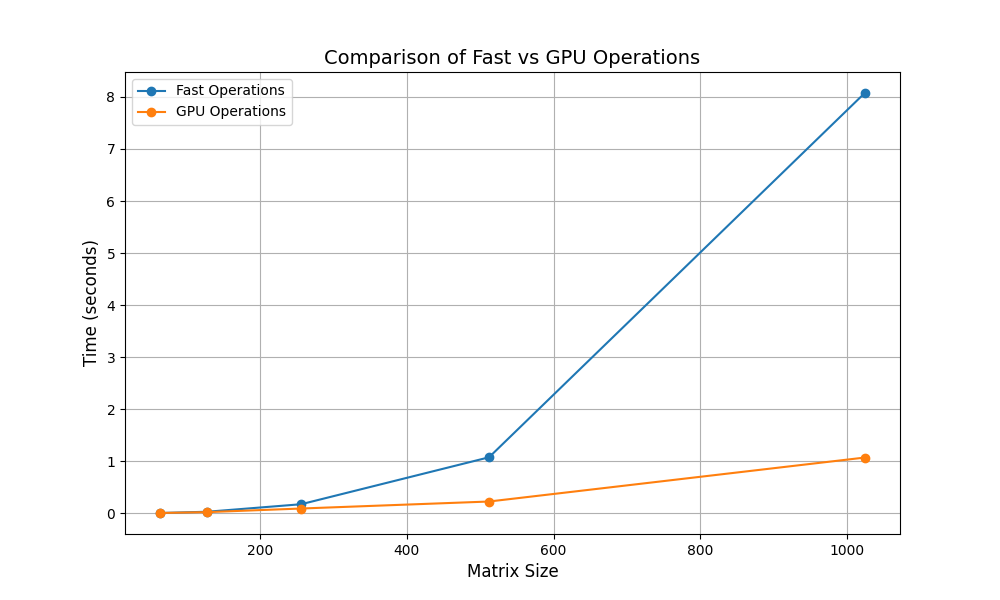
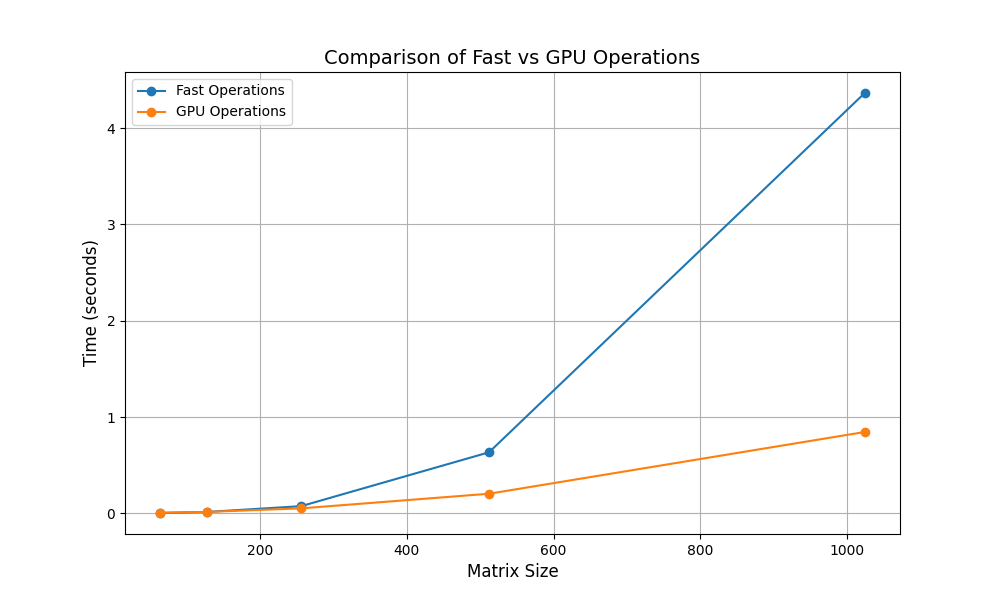
update readme and graph

diff --git a/project/3_4.py b/project/3_4.py
@@ -2,8 +2,8 @@ import matplotlib.pyplot as plt
 
 # Data for timing summary
 sizes = [64, 128, 256, 512, 1024]
-fast_times = [0.00926, 0.03335, 0.17767, 1.07898, 8.07505]
-gpu_times = [0.00945, 0.02600, 0.09527, 0.22972, 1.07416]
+fast_times = [0.00378, 0.01482, 0.07476, 0.63413, 4.36493]
+gpu_times = [0.00672, 0.01506, 0.05186, 0.20378, 0.84500]
 
 # Plotting the data
 plt.figure(figsize=(10, 6))

diff --git a/README.md b/README.md
@@ -44,165 +44,165 @@ The files that will be synced are:
 ### CPU training:
 ### Split dataset
 ```
-Epoch 0, loss 7.541435153571991, correct: 36, time per epoch: 4.1802
-Epoch 10, loss 5.0233748911284435, correct: 35, time per epoch: 0.0542
-Epoch 20, loss 5.0259580390366425, correct: 37, time per epoch: 0.0459
-Epoch 30, loss 6.344256119228708, correct: 42, time per epoch: 0.0766
-Epoch 40, loss 3.93313772929123, correct: 40, time per epoch: 0.0523
-Epoch 50, loss 5.233551851334296, correct: 45, time per epoch: 0.0550
-Epoch 60, loss 3.256555392278325, correct: 44, time per epoch: 0.0464
-Epoch 70, loss 3.4341802477969905, correct: 45, time per epoch: 0.0497
-Epoch 80, loss 1.4843174483749406, correct: 46, time per epoch: 0.0484
-Epoch 90, loss 3.204734325689321, correct: 48, time per epoch: 0.0536
-Epoch 100, loss 2.8003963764343105, correct: 48, time per epoch: 0.0432
-Epoch 110, loss 1.837129467074445, correct: 49, time per epoch: 0.0477
-Epoch 120, loss 1.7520171366355644, correct: 47, time per epoch: 0.0459
-Epoch 130, loss 2.180307465854142, correct: 49, time per epoch: 0.0466
-Epoch 140, loss 1.3601166978319879, correct: 48, time per epoch: 0.0510
-Epoch 150, loss 1.2172215884125028, correct: 48, time per epoch: 0.0838
-Epoch 160, loss 1.8059978195705417, correct: 48, time per epoch: 0.0472
-Epoch 170, loss 1.0917987637723878, correct: 49, time per epoch: 0.0457
-Epoch 180, loss 1.2010013400241926, correct: 47, time per epoch: 0.0405
-Epoch 190, loss 1.6758006143851079, correct: 49, time per epoch: 0.0423
-Epoch 200, loss 0.766626415675517, correct: 50, time per epoch: 0.0432
-Epoch 210, loss 1.1795241962052156, correct: 50, time per epoch: 0.0462
-Epoch 220, loss 1.6721349171000905, correct: 49, time per epoch: 0.0422
-Epoch 230, loss 1.203658019585461, correct: 49, time per epoch: 0.0468
-Epoch 240, loss 1.4711081926987875, correct: 50, time per epoch: 0.0757
-Epoch 250, loss 0.4133051674722915, correct: 49, time per epoch: 0.0554
-Epoch 260, loss 1.632712471111429, correct: 49, time per epoch: 0.0470
-Epoch 270, loss 1.1037599765617008, correct: 50, time per epoch: 0.0508
-Epoch 280, loss 0.6394937705256631, correct: 48, time per epoch: 0.0559
-Epoch 290, loss 1.317324465695774, correct: 50, time per epoch: 0.0555
-Epoch 300, loss 0.612192864640743, correct: 50, time per epoch: 0.0495
-Epoch 310, loss 0.2841755562147677, correct: 49, time per epoch: 0.0442
-Epoch 320, loss 2.1057437369426126, correct: 48, time per epoch: 0.0448
-Epoch 330, loss 0.46119516459960863, correct: 50, time per epoch: 0.0469
-Epoch 340, loss 0.1718613799612057, correct: 49, time per epoch: 0.0532
-Epoch 350, loss 0.657298043616972, correct: 49, time per epoch: 0.0419
-Epoch 360, loss 0.03809033670221614, correct: 49, time per epoch: 0.0465
-Epoch 370, loss 0.5042830511248848, correct: 50, time per epoch: 0.0478
-Epoch 380, loss 0.6515107803030333, correct: 49, time per epoch: 0.0432
-Epoch 390, loss 0.9257103577463999, correct: 50, time per epoch: 0.0431
-Epoch 400, loss 1.7112380037247539, correct: 49, time per epoch: 0.0433
-Epoch 410, loss 0.25188540347064764, correct: 50, time per epoch: 0.0436
-Epoch 420, loss 0.32805588774722716, correct: 50, time per epoch: 0.0444
-Epoch 430, loss 0.49425069105758546, correct: 50, time per epoch: 0.0454
-Epoch 440, loss 0.792104401413702, correct: 50, time per epoch: 0.0521
-Epoch 450, loss 0.8188819214086336, correct: 50, time per epoch: 0.0485
-Epoch 460, loss 0.11638922105137763, correct: 50, time per epoch: 0.0457
-Epoch 470, loss 0.1497413089497364, correct: 50, time per epoch: 0.0456
-Epoch 480, loss 0.4885978072160242, correct: 50, time per epoch: 0.0410
-Epoch 490, loss 0.191369061202005, correct: 50, time per epoch: 0.0423
+Epoch 0, loss 10.289469516995377, correct: 30, time per epoch: 5.3693
+Epoch 10, loss 5.031957345395964, correct: 38, time per epoch: 0.0368
+Epoch 20, loss 5.89184031051182, correct: 33, time per epoch: 0.0720
+Epoch 30, loss 4.631885361748972, correct: 44, time per epoch: 0.0458
+Epoch 40, loss 4.206116221591523, correct: 46, time per epoch: 0.0371
+Epoch 50, loss 3.5499802695067952, correct: 48, time per epoch: 0.0530
+Epoch 60, loss 3.8759258463405875, correct: 47, time per epoch: 0.0379
+Epoch 70, loss 3.12639826404467, correct: 49, time per epoch: 0.0468
+Epoch 80, loss 3.0799422136617656, correct: 50, time per epoch: 0.0509
+Epoch 90, loss 1.4572889062927215, correct: 48, time per epoch: 0.0456
+Epoch 100, loss 0.7698367205511172, correct: 50, time per epoch: 0.0417
+Epoch 110, loss 1.046199615893143, correct: 49, time per epoch: 0.0346
+Epoch 120, loss 1.510717865335551, correct: 49, time per epoch: 0.0414
+Epoch 130, loss 1.5283198867181722, correct: 49, time per epoch: 0.0522
+Epoch 140, loss 0.6476999867952332, correct: 49, time per epoch: 0.0363
+Epoch 150, loss 0.4810521756729189, correct: 49, time per epoch: 0.0438
+Epoch 160, loss 0.8504424968364447, correct: 50, time per epoch: 0.0375
+Epoch 170, loss 1.089566701648757, correct: 49, time per epoch: 0.0480
+Epoch 180, loss 0.4336270111210374, correct: 49, time per epoch: 0.0463
+Epoch 190, loss 0.6334761589238697, correct: 50, time per epoch: 0.0374
+Epoch 200, loss 0.6948827112131767, correct: 50, time per epoch: 0.0352
+Epoch 210, loss 0.15145115662908173, correct: 50, time per epoch: 0.0378
+Epoch 220, loss 0.31722201404611666, correct: 50, time per epoch: 0.0370
+Epoch 230, loss 0.2847669975371973, correct: 50, time per epoch: 0.0368
+Epoch 240, loss 0.5235272060633566, correct: 50, time per epoch: 0.0382
+Epoch 250, loss 0.20041190066187536, correct: 50, time per epoch: 0.0538
+Epoch 260, loss 0.8943314701302763, correct: 50, time per epoch: 0.0407
+Epoch 270, loss 0.7486501315964362, correct: 50, time per epoch: 0.0543
+Epoch 280, loss 0.5991793437136015, correct: 50, time per epoch: 0.0437
+Epoch 290, loss 0.5947334692116348, correct: 50, time per epoch: 0.0415
+Epoch 300, loss 0.24523089893763972, correct: 50, time per epoch: 0.0379
+Epoch 310, loss 0.34166634027598974, correct: 50, time per epoch: 0.0377
+Epoch 320, loss 0.11941046004219812, correct: 50, time per epoch: 0.0433
+Epoch 330, loss 0.8233522498274796, correct: 50, time per epoch: 0.0344
+Epoch 340, loss 0.29299540943613883, correct: 50, time per epoch: 0.0353
+Epoch 350, loss 0.24417377851679575, correct: 50, time per epoch: 0.0351
+Epoch 360, loss 0.07305979399306003, correct: 50, time per epoch: 0.0354
+Epoch 370, loss 0.5142877322274906, correct: 50, time per epoch: 0.0350
+Epoch 380, loss 0.18838279936701247, correct: 50, time per epoch: 0.0494
+Epoch 390, loss 0.12938346405044504, correct: 50, time per epoch: 0.0415
+Epoch 400, loss 0.15280321141279754, correct: 50, time per epoch: 0.0426
+Epoch 410, loss 0.19573884426072505, correct: 50, time per epoch: 0.0347
+Epoch 420, loss 0.19962676679856245, correct: 50, time per epoch: 0.0355
+Epoch 430, loss 0.14623368513663249, correct: 50, time per epoch: 0.0347
+Epoch 440, loss 0.05152056277070397, correct: 50, time per epoch: 0.0347
+Epoch 450, loss 0.17047146683552683, correct: 50, time per epoch: 0.0382
+Epoch 460, loss 0.09675522767989639, correct: 50, time per epoch: 0.0348
+Epoch 470, loss 0.13639243584199837, correct: 50, time per epoch: 0.0358
+Epoch 480, loss 0.4051027456691444, correct: 50, time per epoch: 0.0352
+Epoch 490, loss 0.03159528513117277, correct: 50, time per epoch: 0.0368
 ```
 
 
 ### Simple dataset
 ```
-Epoch 0, loss 5.964221438336466, correct: 37, time per epoch: 4.2339
-Epoch 10, loss 2.170215031790947, correct: 49, time per epoch: 0.0752
-Epoch 20, loss 1.5184254512213364, correct: 50, time per epoch: 0.0526
-Epoch 30, loss 1.485377997276493, correct: 50, time per epoch: 0.0415
-Epoch 40, loss 0.5051631867930725, correct: 50, time per epoch: 0.0487
-Epoch 50, loss 1.1033793116810255, correct: 50, time per epoch: 0.0445
-Epoch 60, loss 0.5930362629309082, correct: 50, time per epoch: 0.0558
-Epoch 70, loss 0.7362742300076754, correct: 50, time per epoch: 0.0514
-Epoch 80, loss 0.7128517205376781, correct: 50, time per epoch: 0.0438
-Epoch 90, loss 0.23497324400233377, correct: 50, time per epoch: 0.0469
-Epoch 100, loss 0.3657890497955045, correct: 50, time per epoch: 0.0541
-Epoch 110, loss 0.5090337487916128, correct: 50, time per epoch: 0.0556
-Epoch 120, loss 0.43343620768853797, correct: 50, time per epoch: 0.0756
-Epoch 130, loss 0.18912775088951236, correct: 50, time per epoch: 0.0426
-Epoch 140, loss 0.3243746858951266, correct: 50, time per epoch: 0.0530
-Epoch 150, loss 0.05710565803870684, correct: 50, time per epoch: 0.0432
-Epoch 160, loss 0.23200456323443727, correct: 50, time per epoch: 0.0484
-Epoch 170, loss 0.10802647306715779, correct: 50, time per epoch: 0.0483
-Epoch 180, loss 0.14462189041640125, correct: 50, time per epoch: 0.0477
-Epoch 190, loss 0.7994364939064333, correct: 50, time per epoch: 0.0503
-Epoch 200, loss 0.30738711995369955, correct: 50, time per epoch: 0.0436
-Epoch 210, loss 0.26039275199890055, correct: 50, time per epoch: 0.0498
-Epoch 220, loss 0.11060177278004786, correct: 50, time per epoch: 0.0615
-Epoch 230, loss 0.13403418807410722, correct: 50, time per epoch: 0.0427
-Epoch 240, loss 0.1711817680011688, correct: 50, time per epoch: 0.0471
-Epoch 250, loss 0.18713928464627527, correct: 50, time per epoch: 0.0475
-Epoch 260, loss 0.14851858613396982, correct: 50, time per epoch: 0.0558
-Epoch 270, loss 0.20809132621576293, correct: 50, time per epoch: 0.0499
-Epoch 280, loss 0.030512344323357383, correct: 50, time per epoch: 0.0446
-Epoch 290, loss 0.003849223226712278, correct: 50, time per epoch: 0.0501
-Epoch 300, loss 0.13162633645866356, correct: 50, time per epoch: 0.0444
-Epoch 310, loss 0.19912050840167636, correct: 50, time per epoch: 0.0439
-Epoch 320, loss 0.23802280454392863, correct: 50, time per epoch: 0.0435
-Epoch 330, loss 0.0033873246055689207, correct: 50, time per epoch: 0.0466
-Epoch 340, loss 0.14061236577975422, correct: 50, time per epoch: 0.0467
-Epoch 350, loss 0.08042430414726631, correct: 50, time per epoch: 0.0638
-Epoch 360, loss 0.13242953399143267, correct: 50, time per epoch: 0.0455
-Epoch 370, loss 0.011639008609705868, correct: 50, time per epoch: 0.0565
-Epoch 380, loss 0.0928214288065133, correct: 50, time per epoch: 0.0471
-Epoch 390, loss 0.004789492770375488, correct: 50, time per epoch: 0.0408
-Epoch 400, loss 0.19074231938200983, correct: 50, time per epoch: 0.0490
-Epoch 410, loss 0.08266829670107688, correct: 50, time per epoch: 0.0478
-Epoch 420, loss 0.10428397554966767, correct: 50, time per epoch: 0.0488
-Epoch 430, loss 0.03532838897945811, correct: 50, time per epoch: 0.0400
-Epoch 440, loss 0.0731010170880373, correct: 50, time per epoch: 0.0461
-Epoch 450, loss 0.09401803193132872, correct: 50, time per epoch: 0.0483
-Epoch 460, loss 0.04632379454249777, correct: 50, time per epoch: 0.0408
-Epoch 470, loss 0.06185371941406551, correct: 50, time per epoch: 0.0453
-Epoch 480, loss 0.040804790062801494, correct: 50, time per epoch: 0.0462
-Epoch 490, loss 0.13446347482405124, correct: 50, time per epoch: 0.0461
+Epoch 0, loss 7.494596172336729, correct: 39, time per epoch: 5.2344
+Epoch 10, loss 1.8109582840616874, correct: 49, time per epoch: 0.0401
+Epoch 20, loss 1.290551288472741, correct: 50, time per epoch: 0.0420
+Epoch 30, loss 0.30558930011720314, correct: 50, time per epoch: 0.0455
+Epoch 40, loss 1.0252034081700099, correct: 50, time per epoch: 0.0363
+Epoch 50, loss 0.8849560085213465, correct: 50, time per epoch: 0.0387
+Epoch 60, loss 0.28489036237580323, correct: 50, time per epoch: 0.0357
+Epoch 70, loss 0.0789983175091564, correct: 50, time per epoch: 0.0342
+Epoch 80, loss 0.366108141806776, correct: 50, time per epoch: 0.0401
+Epoch 90, loss 0.1849116046732382, correct: 50, time per epoch: 0.0376
+Epoch 100, loss 0.02257669232216092, correct: 50, time per epoch: 0.0345
+Epoch 110, loss 0.2621672693013866, correct: 50, time per epoch: 0.0382
+Epoch 120, loss 0.5118024859239897, correct: 50, time per epoch: 0.0356
+Epoch 130, loss 0.6771554874676363, correct: 50, time per epoch: 0.0375
+Epoch 140, loss 0.051189330184327406, correct: 50, time per epoch: 0.0663
+Epoch 150, loss 0.1328429887800764, correct: 50, time per epoch: 0.0397
+Epoch 160, loss 0.06991623763608223, correct: 50, time per epoch: 0.0359
+Epoch 170, loss 0.05605556387525999, correct: 50, time per epoch: 0.0390
+Epoch 180, loss 0.029798136985655446, correct: 50, time per epoch: 0.0395
+Epoch 190, loss 0.07158376724458752, correct: 50, time per epoch: 0.0367
+Epoch 200, loss 0.4772760267131647, correct: 50, time per epoch: 0.0358
+Epoch 210, loss 0.40329905781266306, correct: 50, time per epoch: 0.0362
+Epoch 220, loss 0.02126728241687128, correct: 50, time per epoch: 0.0361
+Epoch 230, loss 0.4402151581603323, correct: 50, time per epoch: 0.0374
+Epoch 240, loss 0.3529212474457773, correct: 50, time per epoch: 0.0358
+Epoch 250, loss 0.3442059999673986, correct: 50, time per epoch: 0.0388
+Epoch 260, loss 0.04494344601103375, correct: 50, time per epoch: 0.0368
+Epoch 270, loss 0.3130102703357568, correct: 50, time per epoch: 0.0473
+Epoch 280, loss 0.2472083380644449, correct: 50, time per epoch: 0.0416
+Epoch 290, loss 0.3055796666814829, correct: 50, time per epoch: 0.0416
+Epoch 300, loss 0.014938973274831907, correct: 50, time per epoch: 0.0352
+Epoch 310, loss 0.08388140956914776, correct: 50, time per epoch: 0.0403
+Epoch 320, loss 0.07369557884792613, correct: 50, time per epoch: 0.0348
+Epoch 330, loss 0.2570868433476638, correct: 50, time per epoch: 0.0338
+Epoch 340, loss 0.04258006355356205, correct: 50, time per epoch: 0.0357
+Epoch 350, loss 0.23317402655087535, correct: 50, time per epoch: 0.0355
+Epoch 360, loss 0.21086464211961284, correct: 50, time per epoch: 0.0368
+Epoch 370, loss 0.011090401005887719, correct: 50, time per epoch: 0.0357
+Epoch 380, loss 0.3086799238456637, correct: 50, time per epoch: 0.0349
+Epoch 390, loss 0.029386861269727508, correct: 50, time per epoch: 0.0380
+Epoch 400, loss 0.05271875758776935, correct: 50, time per epoch: 0.0397
+Epoch 410, loss 0.14097912344974545, correct: 50, time per epoch: 0.0391
+Epoch 420, loss 0.1203712309048373, correct: 50, time per epoch: 0.0370
+Epoch 430, loss 0.008016176696996235, correct: 50, time per epoch: 0.0351
+Epoch 440, loss 0.04569629145952677, correct: 50, time per epoch: 0.0368
+Epoch 450, loss 0.02002615397069076, correct: 50, time per epoch: 0.0342
+Epoch 460, loss 0.004607467153478163, correct: 50, time per epoch: 0.0341
+Epoch 470, loss 0.23307280835873315, correct: 50, time per epoch: 0.0361
+Epoch 480, loss 0.012102496691143438, correct: 50, time per epoch: 0.0359
+Epoch 490, loss 0.18294142666882152, correct: 50, time per epoch: 0.0356
 ```
 
 ### XOR dataset
 ```
-Epoch 0, loss 5.914534306596295, correct: 33, time per epoch: 4.1696
-Epoch 10, loss 5.474998043745021, correct: 42, time per epoch: 0.0439
-Epoch 20, loss 3.620962668156853, correct: 41, time per epoch: 0.0451
-Epoch 30, loss 4.745763529271994, correct: 42, time per epoch: 0.0440
-Epoch 40, loss 3.6755741059450577, correct: 42, time per epoch: 0.0498
-Epoch 50, loss 5.811494551326024, correct: 43, time per epoch: 0.0424
-Epoch 60, loss 4.303205752391879, correct: 43, time per epoch: 0.0474
-Epoch 70, loss 2.0563075004113998, correct: 43, time per epoch: 0.0428
-Epoch 80, loss 4.537128566371332, correct: 46, time per epoch: 0.0486
-Epoch 90, loss 2.7608189742013534, correct: 46, time per epoch: 0.0459
-Epoch 100, loss 1.3834021569041124, correct: 44, time per epoch: 0.0404
-Epoch 110, loss 2.579558787779824, correct: 46, time per epoch: 0.0447
-Epoch 120, loss 3.2337692584364306, correct: 45, time per epoch: 0.0410
-Epoch 130, loss 1.6480499958295702, correct: 48, time per epoch: 0.0449
-Epoch 140, loss 0.9722787407455149, correct: 48, time per epoch: 0.0447
-Epoch 150, loss 1.485884863378967, correct: 47, time per epoch: 0.0429
-Epoch 160, loss 3.5310269929291462, correct: 47, time per epoch: 0.0415
-Epoch 170, loss 1.0592634230408318, correct: 46, time per epoch: 0.0421
-Epoch 180, loss 2.085757358503168, correct: 46, time per epoch: 0.0521
-Epoch 190, loss 2.444522768416998, correct: 50, time per epoch: 0.0435
-Epoch 200, loss 1.6126290763235707, correct: 48, time per epoch: 0.0454
-Epoch 210, loss 1.452210163671703, correct: 50, time per epoch: 0.0449
-Epoch 220, loss 2.032258486982422, correct: 50, time per epoch: 0.0474
-Epoch 230, loss 1.3991192841800222, correct: 50, time per epoch: 0.0422
-Epoch 240, loss 0.9627643600873387, correct: 49, time per epoch: 0.0412
-Epoch 250, loss 0.9688405864643943, correct: 50, time per epoch: 0.0444
-Epoch 260, loss 1.7000042895405438, correct: 50, time per epoch: 0.0447
-Epoch 270, loss 0.8606359548675229, correct: 50, time per epoch: 0.0405
-Epoch 280, loss 1.448275954280371, correct: 50, time per epoch: 0.0427
-Epoch 290, loss 0.5424697447687201, correct: 50, time per epoch: 0.0470
-Epoch 300, loss 0.7118110719216528, correct: 50, time per epoch: 0.0460
-Epoch 310, loss 0.5206934763296994, correct: 50, time per epoch: 0.0471
-Epoch 320, loss 0.19701178204811035, correct: 50, time per epoch: 0.0433
-Epoch 330, loss 0.694463774302066, correct: 50, time per epoch: 0.0449
-Epoch 340, loss 0.8187648333631748, correct: 49, time per epoch: 0.0433
-Epoch 350, loss 0.6446966650314635, correct: 50, time per epoch: 0.0643
-Epoch 360, loss 0.5553569164588056, correct: 50, time per epoch: 0.0451
-Epoch 370, loss 0.1932330450469118, correct: 50, time per epoch: 0.0434
-Epoch 380, loss 0.2369742122552634, correct: 50, time per epoch: 0.0466
-Epoch 390, loss 0.6671279814803073, correct: 50, time per epoch: 0.0427
-Epoch 400, loss 1.3320242570324945, correct: 48, time per epoch: 0.0447
-Epoch 410, loss 0.370541595900868, correct: 50, time per epoch: 0.0414
-Epoch 420, loss 1.5070299217894985, correct: 49, time per epoch: 0.0422
-Epoch 430, loss 0.5707548365444364, correct: 50, time per epoch: 0.0407
-Epoch 440, loss 0.5685102138473194, correct: 50, time per epoch: 0.0437
-Epoch 450, loss 0.3910112518841457, correct: 50, time per epoch: 0.0469
-Epoch 460, loss 0.4530038994098573, correct: 50, time per epoch: 0.0419
-Epoch 470, loss 0.43166821317448567, correct: 50, time per epoch: 0.0444
-Epoch 480, loss 0.5577084680963467, correct: 50, time per epoch: 0.0485
-Epoch 490, loss 0.6709850744943788, correct: 50, time per epoch: 0.0445
+Epoch 0, loss 7.423457021005917, correct: 31, time per epoch: 5.4589
+Epoch 10, loss 4.316630071015956, correct: 48, time per epoch: 0.0706
+Epoch 20, loss 3.1504258704411905, correct: 49, time per epoch: 0.0640
+Epoch 30, loss 3.201647089768343, correct: 48, time per epoch: 0.0650
+Epoch 40, loss 2.1468222173518705, correct: 49, time per epoch: 0.0582
+Epoch 50, loss 3.283346880273613, correct: 48, time per epoch: 0.0526
+Epoch 60, loss 1.2923083483204527, correct: 49, time per epoch: 0.0489
+Epoch 70, loss 1.2123547161037205, correct: 49, time per epoch: 0.0544
+Epoch 80, loss 1.3339616922306876, correct: 49, time per epoch: 0.0577
+Epoch 90, loss 0.8230137600944752, correct: 49, time per epoch: 0.0509
+Epoch 100, loss 2.247596258968017, correct: 49, time per epoch: 0.0446
+Epoch 110, loss 1.9410369569345252, correct: 49, time per epoch: 0.0500
+Epoch 120, loss 1.085739165605145, correct: 49, time per epoch: 0.0499
+Epoch 130, loss 0.3385520449855312, correct: 49, time per epoch: 0.0481
+Epoch 140, loss 0.8487182633992383, correct: 49, time per epoch: 0.0414
+Epoch 150, loss 0.7611538470327518, correct: 50, time per epoch: 0.0509
+Epoch 160, loss 1.549177817274765, correct: 49, time per epoch: 0.0409
+Epoch 170, loss 1.0852090760082023, correct: 49, time per epoch: 0.0449
+Epoch 180, loss 0.5910429451136654, correct: 49, time per epoch: 0.0459
+Epoch 190, loss 0.19580810261973736, correct: 49, time per epoch: 0.0475
+Epoch 200, loss 0.5413841810944345, correct: 49, time per epoch: 0.0423
+Epoch 210, loss 0.23751401746303852, correct: 49, time per epoch: 0.0489
+Epoch 220, loss 1.006325306981922, correct: 49, time per epoch: 0.0629
+Epoch 230, loss 0.24078710538288475, correct: 49, time per epoch: 0.0413
+Epoch 240, loss 0.32969840220433644, correct: 49, time per epoch: 0.0424
+Epoch 250, loss 1.8341673607952593, correct: 50, time per epoch: 0.0384
+Epoch 260, loss 0.35532248480351897, correct: 49, time per epoch: 0.0444
+Epoch 270, loss 1.2915572708147318, correct: 49, time per epoch: 0.0463
+Epoch 280, loss 1.0701703212678186, correct: 49, time per epoch: 0.0430
+Epoch 290, loss 1.7835062319325636, correct: 49, time per epoch: 0.0544
+Epoch 300, loss 0.5097120729176627, correct: 50, time per epoch: 0.0493
+Epoch 310, loss 0.04548589396300872, correct: 49, time per epoch: 0.0396
+Epoch 320, loss 0.477272551291192, correct: 50, time per epoch: 0.0478
+Epoch 330, loss 0.3507007757802324, correct: 49, time per epoch: 0.0544
+Epoch 340, loss 0.03391530010055361, correct: 49, time per epoch: 0.0468
+Epoch 350, loss 0.6550347532324855, correct: 49, time per epoch: 0.0421
+Epoch 360, loss 0.44107622352747816, correct: 49, time per epoch: 0.0446
+Epoch 370, loss 1.2763597835219327, correct: 49, time per epoch: 0.0457
+Epoch 380, loss 0.0868159199326655, correct: 49, time per epoch: 0.0399
+Epoch 390, loss 0.15410764654306566, correct: 50, time per epoch: 0.0433
+Epoch 400, loss 0.12875421866102052, correct: 49, time per epoch: 0.0505
+Epoch 410, loss 0.28367344040593373, correct: 49, time per epoch: 0.0490
+Epoch 420, loss 1.2333188571509976, correct: 49, time per epoch: 0.0380
+Epoch 430, loss 0.23057546995332143, correct: 49, time per epoch: 0.0407
+Epoch 440, loss 0.35629248936413493, correct: 49, time per epoch: 0.0502
+Epoch 450, loss 0.3195707280567095, correct: 49, time per epoch: 0.0395
+Epoch 460, loss 0.2233336137831534, correct: 49, time per epoch: 0.0410
+Epoch 470, loss 0.1561512641714936, correct: 49, time per epoch: 0.0485
+Epoch 480, loss 0.12173814805482824, correct: 50, time per epoch: 0.0492
+Epoch 490, loss 1.1460430439086582, correct: 49, time per epoch: 0.0394
 ```
 
 ### GPU training:
